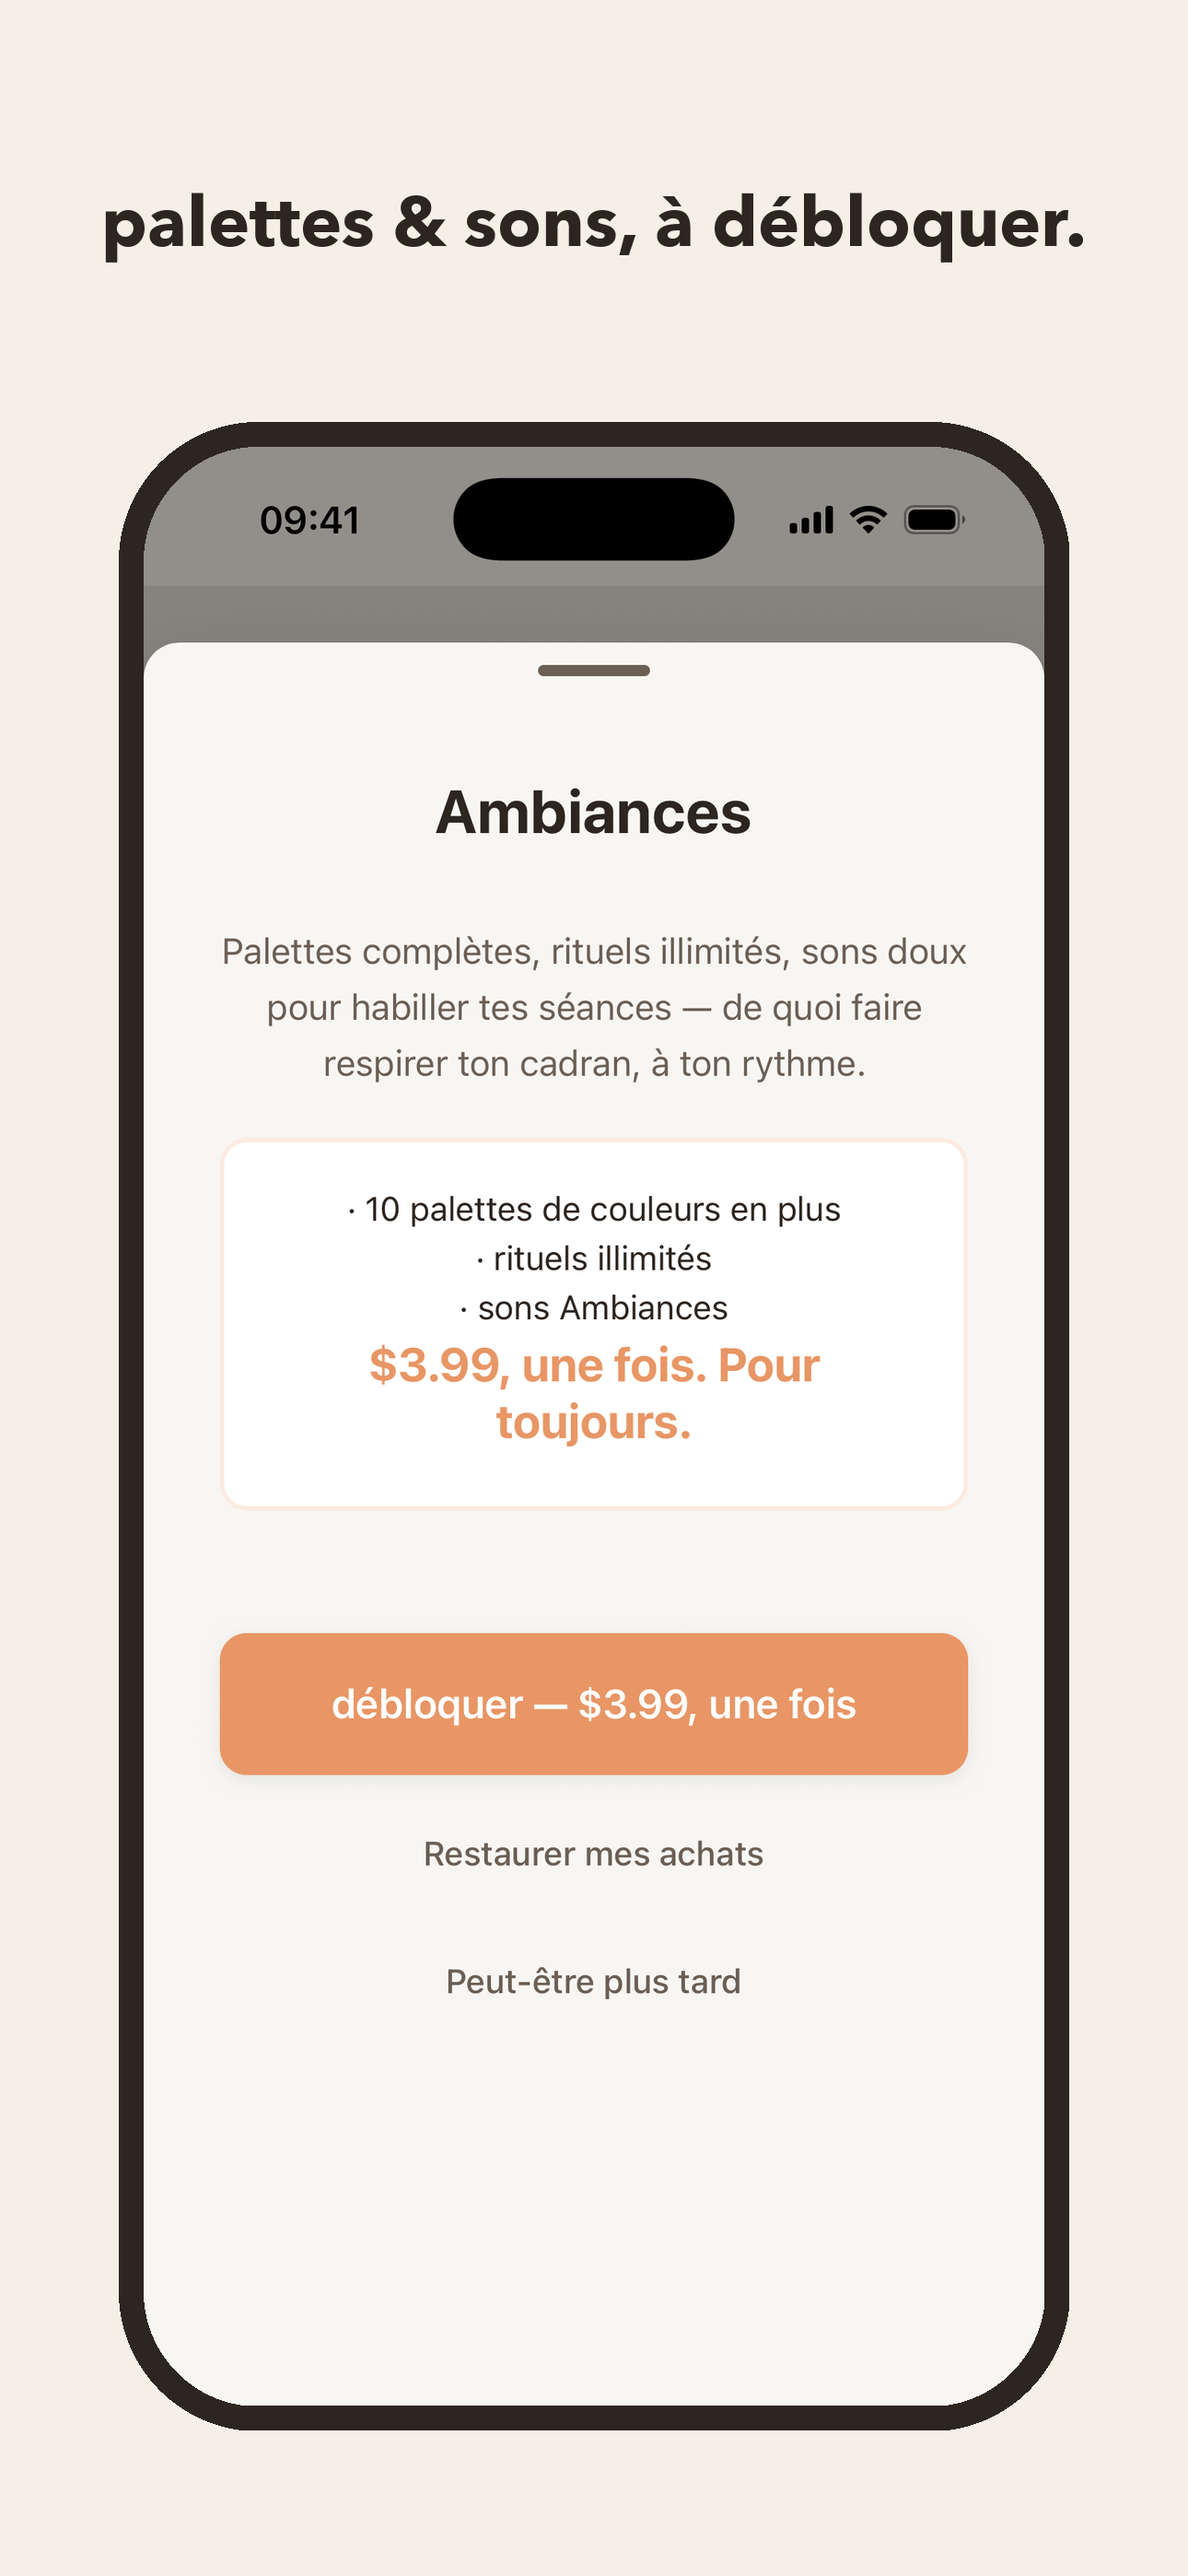
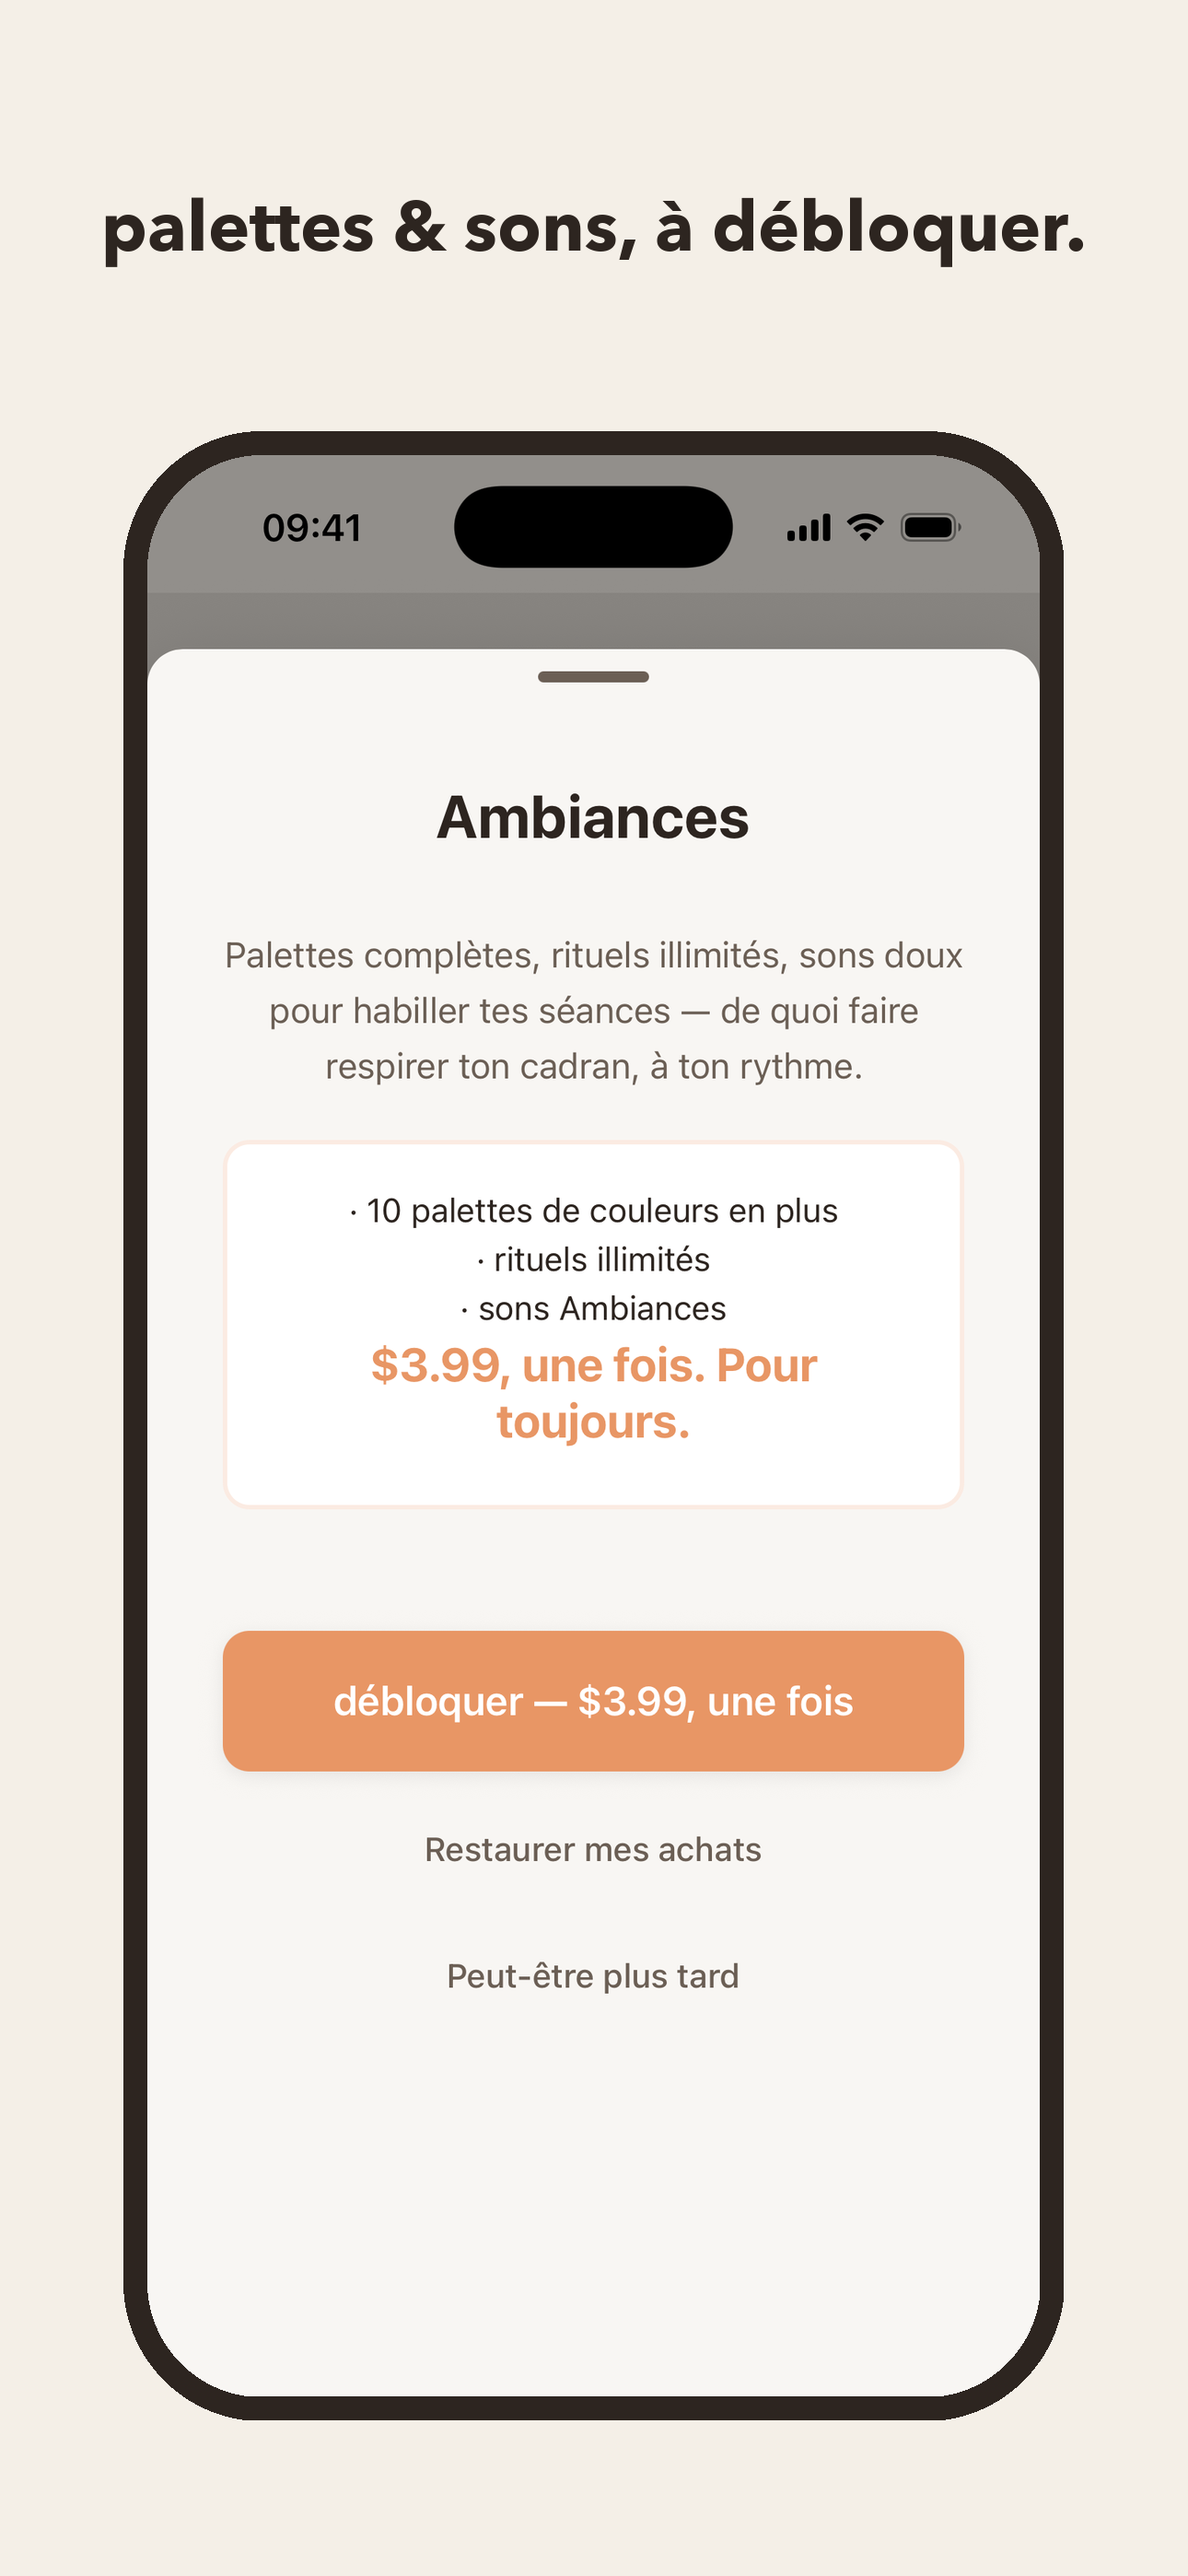
assets(store): déclinaisons complètes — 48 captures (iPhone/iPad/Android phone+tablette) + feature graphic Play FR/EN
Claude-Session: https://claude.ai/code/session_01QJPiJ97GpBr2HWp2QBN9uU

diff --git a/scripts/dress-store-captures.py b/scripts/dress-store-captures.py
@@ -18,8 +18,14 @@ ROOT = Path(__file__).resolve().parent.parent
 RAW = ROOT / 'assets/store-captures/3.0/raw'
 OUT = ROOT / 'assets/store-captures/3.0/dressed'
 
-# Canevas Apple iPhone 6.7" (spec CD)
-CANVAS = (1290, 2796)
+# Canevas par format (spec CD + exigences stores)
+FORMATS = {
+    'iphone-6.7': (1290, 2796),
+    'ipad-13': (2048, 2732),
+    'android-phone': (1080, 1920),
+    'android-tablet': (1600, 2560),
+}
+CANVAS = FORMATS['iphone-6.7']
 CREAM = '#F4EFE7'
 COAL = '#1A1A1A'
 FRAME = '#2D2520'
@@ -53,30 +59,47 @@ def rounded_mask(size, radius):
     return m
 
 
-def dress(raw_path: Path, num: str, lang: str) -> Path:
+def dress(raw_path: Path, num: str, lang: str, fmt: str = 'iphone-6.7') -> Path:
     spec = SHOTS[num]
     if isinstance(spec, tuple):
         hook, bg = spec
     else:
         hook, bg = spec[lang], spec['bg']
 
-    canvas = Image.new('RGB', CANVAS, bg)
-    cw, ch = CANVAS
+    size = FORMATS[fmt]
+    canvas = Image.new('RGB', size, bg)
+    cw, ch = size
 
     # Accroche
     # Device ENTIER (retour Eric 26/08 : le « coupé en bas » du gabarit CD
     # rendait mal — bande sheet tronquée, device affaissé) : cadre complet aux
     # 4 coins arrondis, écran intégral, centré dans l'espace sous l'accroche.
+    shot = Image.open(raw_path).convert('RGB')
+    hook_band_probe = HOOK_BAND if hook else 0
+    # Largeur cible : 80 % du canevas, MAIS jamais plus haut que l'espace
+    # disponible (canevas - bande accroche - marges) — sur iPad/tablette,
+    # c'est la hauteur qui contraint.
+    margin_v = round(ch * 0.06)
+    avail_h = ch - hook_band_probe - 2 * margin_v
     dev_w = round(cw * DEVICE_W_RATIO)
+    ratio = shot.height / shot.width
+    def height_for(w):
+        f = round(w * FRAME_RATIO)
+        return round((w - 2 * f) * ratio) + 2 * f
+    if height_for(dev_w) > avail_h:
+        lo, hi = 100, dev_w
+        while lo < hi:
+            mid = (lo + hi + 1) // 2
+            if height_for(mid) <= avail_h:
+                lo = mid
+            else:
+                hi = mid - 1
+        dev_w = lo
     frame_px = round(dev_w * FRAME_RATIO)
     radius = round(dev_w * CORNER_RATIO)
-
-    shot = Image.open(raw_path).convert('RGB')
     scr_w = dev_w - 2 * frame_px
-    scale = scr_w / shot.width
-    scr_h = round(shot.height * scale)
+    scr_h = round(scr_w * ratio)
     shot = shot.resize((scr_w, scr_h), Image.LANCZOS)
-
     dev_h = scr_h + 2 * frame_px
 
     frame_img = Image.new('RGB', (dev_w, dev_h), FRAME)
@@ -93,7 +116,7 @@ def dress(raw_path: Path, num: str, lang: str) -> Path:
         draw = ImageDraw.Draw(canvas)
         color = HOOK_ON_CREAM if bg == CREAM else HOOK_ON_COAL
         # Ajuste la taille pour que l'accroche tienne (marge 90 px de chaque côté)
-        size = HOOK_SIZE
+        size = round(HOOK_SIZE * cw / 1290)
         font = ImageFont.truetype(FONT, size)
         while draw.textlength(hook, font=font) > cw - 180 and size > 40:
             size -= 4
@@ -102,7 +125,36 @@ def dress(raw_path: Path, num: str, lang: str) -> Path:
         draw.text(((cw - tw) / 2, (device_top - size) / 2), hook, font=font, fill=color)
 
     OUT.mkdir(parents=True, exist_ok=True)
-    out = OUT / f'iphone-6.7/{num}-{lang}.png'
+    out = OUT / f'{fmt}/{num}-{lang}.png'
+    out.parent.mkdir(parents=True, exist_ok=True)
+    canvas.save(out, 'PNG')
+    return out
+
+
+FG_SUBTITLE = {'fr': 'Le temps, visible et doux.', 'en': 'Time, visible and gentle.'}
+
+
+def feature_graphic(lang: str) -> Path:
+    """Feature graphic Play 1024x500 (spec CD) : disque de la capture 01 +
+    nom + sous-titre de la fiche, fond crème, aucun device frame."""
+    raw = RAW / f'01-accueil-seance-{lang}.png'
+    shot = Image.open(raw).convert('RGB')
+    # Le cadran occupe une zone connue de l'accueil (constante d'un shoot à
+    # l'autre : même écran, même layout) — crop carré généreux autour.
+    crop = shot.crop((93, 620, 1113, 1640))
+    dial = crop.resize((420, 420), Image.LANCZOS)
+    mask = Image.new('L', (420, 420), 0)
+    ImageDraw.Draw(mask).ellipse([0, 0, 420, 420], fill=255)
+
+    canvas = Image.new('RGB', (1024, 500), CREAM)
+    canvas.paste(dial, (60, 40), mask)
+    draw = ImageDraw.Draw(canvas)
+    title_font = ImageFont.truetype(FONT, 76)
+    sub_font = ImageFont.truetype(FONT, 34)
+    draw.text((540, 190), 'ResetPulse', font=title_font, fill='#2D2520')
+    draw.text((542, 290), FG_SUBTITLE[lang], font=sub_font, fill='#6B5F55')
+
+    out = OUT / f'feature-graphic/{lang}.png'
     out.parent.mkdir(parents=True, exist_ok=True)
     canvas.save(out, 'PNG')
     return out
@@ -119,7 +171,12 @@ def main():
             continue
         if num not in SHOTS:
             continue
-        done.append(dress(raw, num, lang))
+        fmts = ['iphone-6.7'] if mode == 'proof' else list(FORMATS)
+        for fmt in fmts:
+            done.append(dress(raw, num, lang, fmt))
+    if mode == 'all':
+        for lang in ('fr', 'en'):
+            done.append(feature_graphic(lang))
     for p in done:
         print(p.relative_to(ROOT))
 
